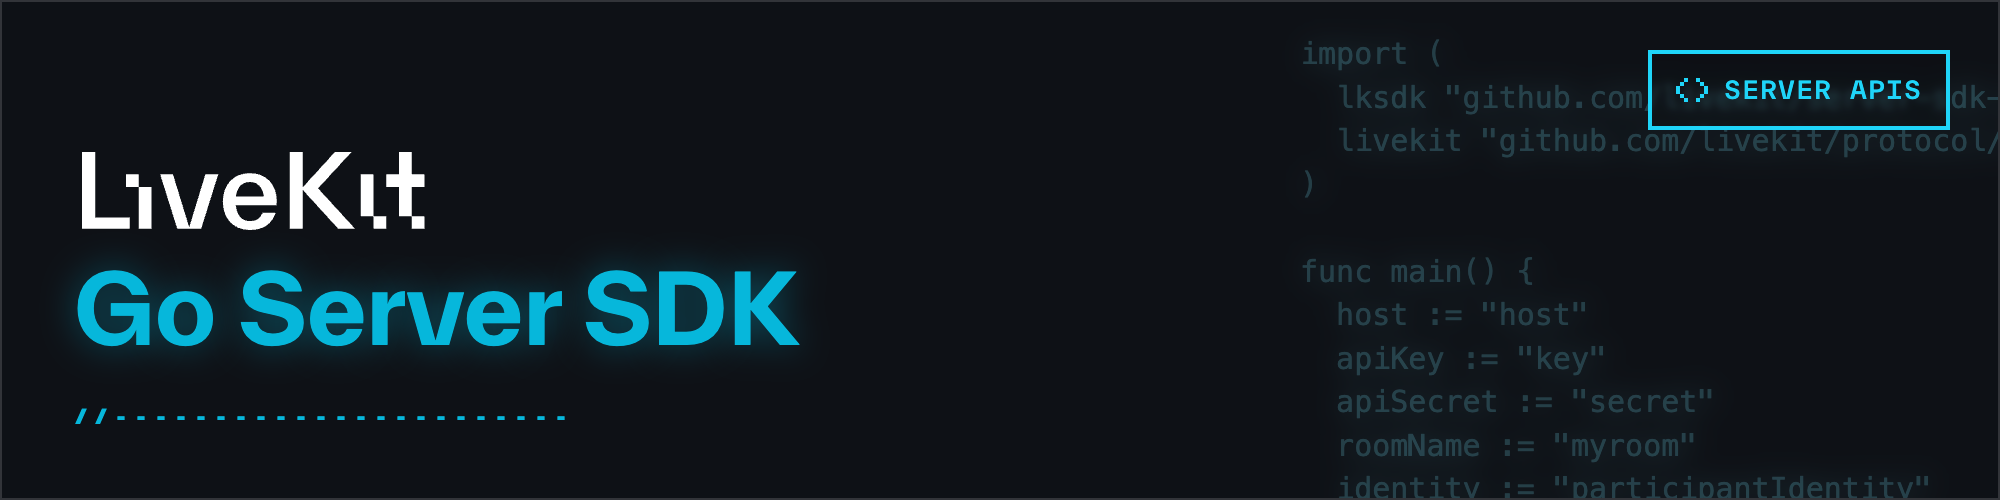
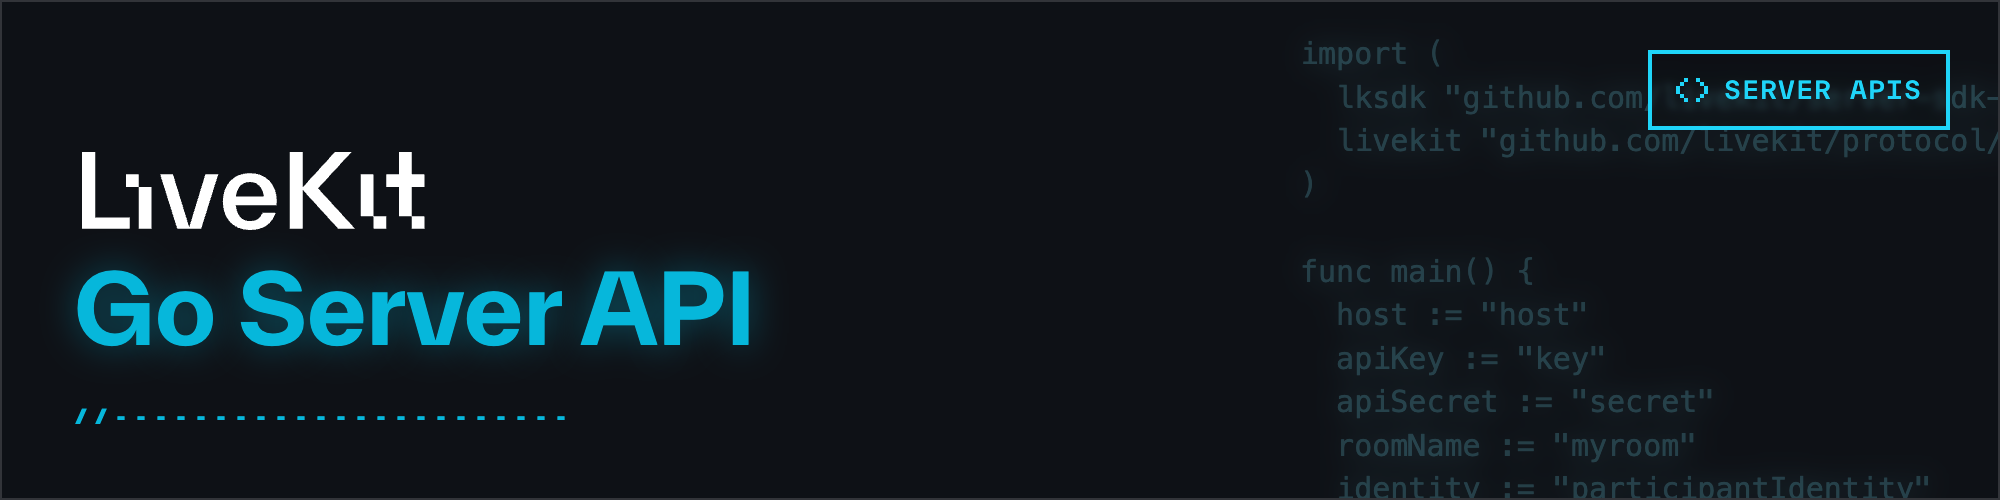
update readme (#510)

Changed region(s): [[0.279, 0.54, 0.403, 0.69]]

diff --git a/README.md b/README.md
@@ -11,7 +11,7 @@
 # LiveKit Go SDK
 
 <!--BEGIN_DESCRIPTION-->
-Use this SDK to manage <a href="https://livekit.io/">LiveKit</a> rooms and create access tokens from your Go backend.
+Use this SDK to interact with <a href="https://livekit.io/">LiveKit</a> server APIs and create access tokens from your Go backend.
 <!--END_DESCRIPTION-->
 
 [!NOTE]
@@ -288,11 +288,11 @@ func ServeHTTP(w http.ResponseWriter, r *http.Request) {
 <br/><table>
 <thead><tr><th colspan="2">LiveKit Ecosystem</th></tr></thead>
 <tbody>
-<tr><td>Real-time SDKs</td><td><a href="https://github.com/livekit/components-js">React Components</a> · <a href="https://github.com/livekit/client-sdk-js">Browser</a> · <a href="https://github.com/livekit/client-sdk-swift">iOS/macOS</a> · <a href="https://github.com/livekit/client-sdk-android">Android</a> · <a href="https://github.com/livekit/client-sdk-flutter">Flutter</a> · <a href="https://github.com/livekit/client-sdk-react-native">React Native</a> · <a href="https://github.com/livekit/rust-sdks">Rust</a> · <a href="https://github.com/livekit/node-sdks">Node.js</a> · <a href="https://github.com/livekit/python-sdks">Python</a> · <a href="https://github.com/livekit/client-sdk-unity-web">Unity (web)</a> · <a href="https://github.com/livekit/client-sdk-unity">Unity (beta)</a></td></tr><tr></tr>
+<tr><td>Realtime SDKs</td><td><a href="https://github.com/livekit/components-js">React Components</a> · <a href="https://github.com/livekit/client-sdk-js">Browser</a> · <a href="https://github.com/livekit/components-swift">Swift Components</a> · <a href="https://github.com/livekit/client-sdk-swift">iOS/macOS/visionOS</a> · <a href="https://github.com/livekit/client-sdk-android">Android</a> · <a href="https://github.com/livekit/client-sdk-flutter">Flutter</a> · <a href="https://github.com/livekit/client-sdk-react-native">React Native</a> · <a href="https://github.com/livekit/rust-sdks">Rust</a> · <a href="https://github.com/livekit/node-sdks">Node.js</a> · <a href="https://github.com/livekit/python-sdks">Python</a> · <a href="https://github.com/livekit/client-sdk-unity-web">Unity (web)</a> · <a href="https://github.com/livekit/client-sdk-unity">Unity (beta)</a></td></tr><tr></tr>
 <tr><td>Server APIs</td><td><a href="https://github.com/livekit/node-sdks">Node.js</a> · <b>Golang</b> · <a href="https://github.com/livekit/server-sdk-ruby">Ruby</a> · <a href="https://github.com/livekit/server-sdk-kotlin">Java/Kotlin</a> · <a href="https://github.com/livekit/python-sdks">Python</a> · <a href="https://github.com/livekit/rust-sdks">Rust</a> · <a href="https://github.com/agence104/livekit-server-sdk-php">PHP (community)</a></td></tr><tr></tr>
 <tr><td>Agents Frameworks</td><td><a href="https://github.com/livekit/agents">Python</a> · <a href="https://github.com/livekit/agent-playground">Playground</a></td></tr><tr></tr>
-<tr><td>Services</td><td><a href="https://github.com/livekit/livekit">Livekit server</a> · <a href="https://github.com/livekit/egress">Egress</a> · <a href="https://github.com/livekit/ingress">Ingress</a> · <a href="https://github.com/livekit/sip">SIP</a></td></tr><tr></tr>
-<tr><td>Resources</td><td><a href="https://docs.livekit.io">Docs</a> · <a href="https://github.com/livekit-examples">Example apps</a> · <a href="https://livekit.io/cloud">Cloud</a> · <a href="https://docs.livekit.io/oss/deployment">Self-hosting</a> · <a href="https://github.com/livekit/livekit-cli">CLI</a></td></tr>
+<tr><td>Services</td><td><a href="https://github.com/livekit/livekit">LiveKit server</a> · <a href="https://github.com/livekit/egress">Egress</a> · <a href="https://github.com/livekit/ingress">Ingress</a> · <a href="https://github.com/livekit/sip">SIP</a></td></tr><tr></tr>
+<tr><td>Resources</td><td><a href="https://docs.livekit.io">Docs</a> · <a href="https://github.com/livekit-examples">Example apps</a> · <a href="https://livekit.io/cloud">Cloud</a> · <a href="https://docs.livekit.io/home/self-hosting/deployment">Self-hosting</a> · <a href="https://github.com/livekit/livekit-cli">CLI</a></td></tr>
 </tbody>
 </table>
 <!--END_REPO_NAV-->
